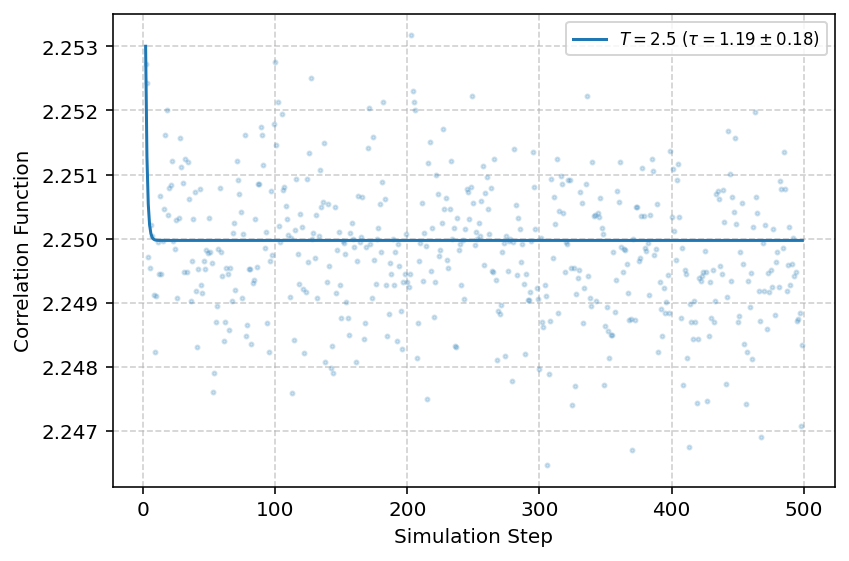
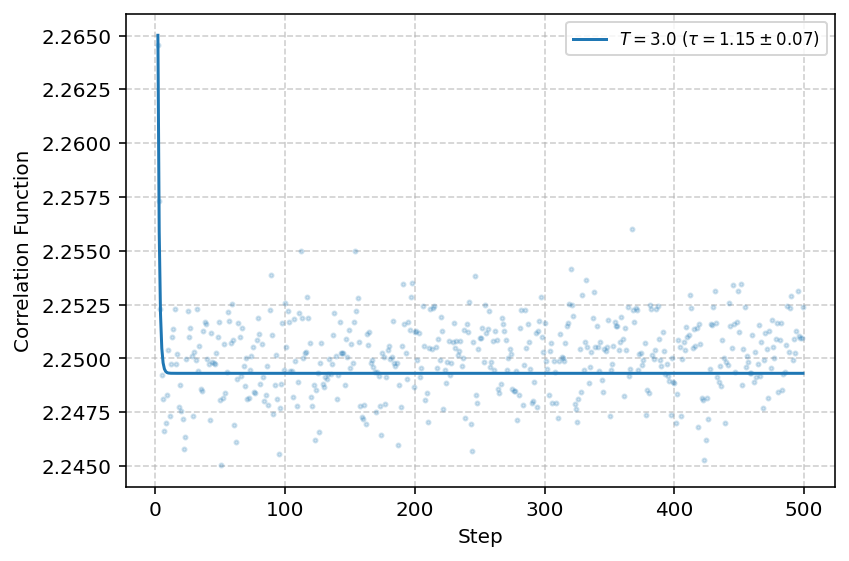
date up

diff --git a/documentation/sections/P2E3.tex b/documentation/sections/P2E3.tex
@@ -68,6 +68,24 @@ this unfortunately does not improve the plot signifiantly and gives a slightly l
 
 \subsection{Correlation}
 
+Figure~\ref{fig: correlation in steps} shows the correlation function as a function of the number of steps for different temperatures. Here the average of 30 simulations is taken. in these results an exponential decay is fit, from this fit the decay-time and its uncertainty can be found.
+
+\begin{figure}[H]
+	\centering
+	\subfloat[listentry][Temperature of 3.0]{\includegraphics[width=.45\linewidth]{graphs/P2E3/T25.png}}
+	\subfloat[listentry][Temperature of 4.5]{\includegraphics[width=.45\linewidth]{graphs/P2E3/T45.png}}\\
+	\subfloat[listentry][Temperature of 5.5]{\includegraphics[width=.45\linewidth]{graphs/P2E3/T55.png}}	\subfloat[listentry][Temperature of 8.0]{\includegraphics[width=.45\linewidth]{graphs/P2E3/T75.png}}
+	\caption{The correlation function between the spins in the initial state as a function of the number of taken simulation steps}
+	\label{fig: correlation in steps}
+\end{figure}
 
 
+The decay time as a function of temperature is shown in figure~\ref{fig: decay time of temp}. It can be seen that the correlation time goes up significantly during the phase transition, after the phase transition it goes down again.
+
+\begin{figure}[H]
+	\centering
+	\includegraphics[width=0.7\linewidth]{graphs/P2E3/tau_temp.png}
+	\caption{The decay "time" in the number of the simulation steps as a function of the unit less temperature}
+	\label{fig: decay time of temp}
+\end{figure}
 

diff --git a/E3_p3/plotting3.py b/E3_p3/plotting3.py
@@ -338,7 +338,7 @@ for key in sorted_keys:
                  label=f'$T = {key}$ ($\\tau = {tau_val:.2f} \\pm {tau_err:.2f}$)')
         
         
-        plt.xlabel('Simulation Step')
+        plt.xlabel('Step')
         plt.ylabel('Correlation Function')
         plt.legend(fontsize='small', ncol=2)
         plt.grid(True, linestyle='--', alpha=0.6)
@@ -354,9 +354,9 @@ plt.figure(figsize=(8, 5))
 plt.errorbar(T_results[2:], tau_results[2:], yerr=tau_errors[2:], 
              fmt='o-', capsize=5, markersize=6)#, ecolor='red', color='black')
 plt.axvline(T_crit, color='k', linestyle='--')
-plt.xlabel('Temperature ($T$)')
-plt.ylabel('Decay Time ($\\tau$)')
-plt.title('Correlation Decay Time vs Temperature')
+plt.xlabel(r"$T^*: k_bT/J$", fontsize=12)
+plt.ylabel('$\\tau$')
+# plt.title('Correlation Decay Time vs Temperature')
 plt.grid(True, linestyle=':', alpha=0.7)
 plt.tight_layout()
 plt.show()
